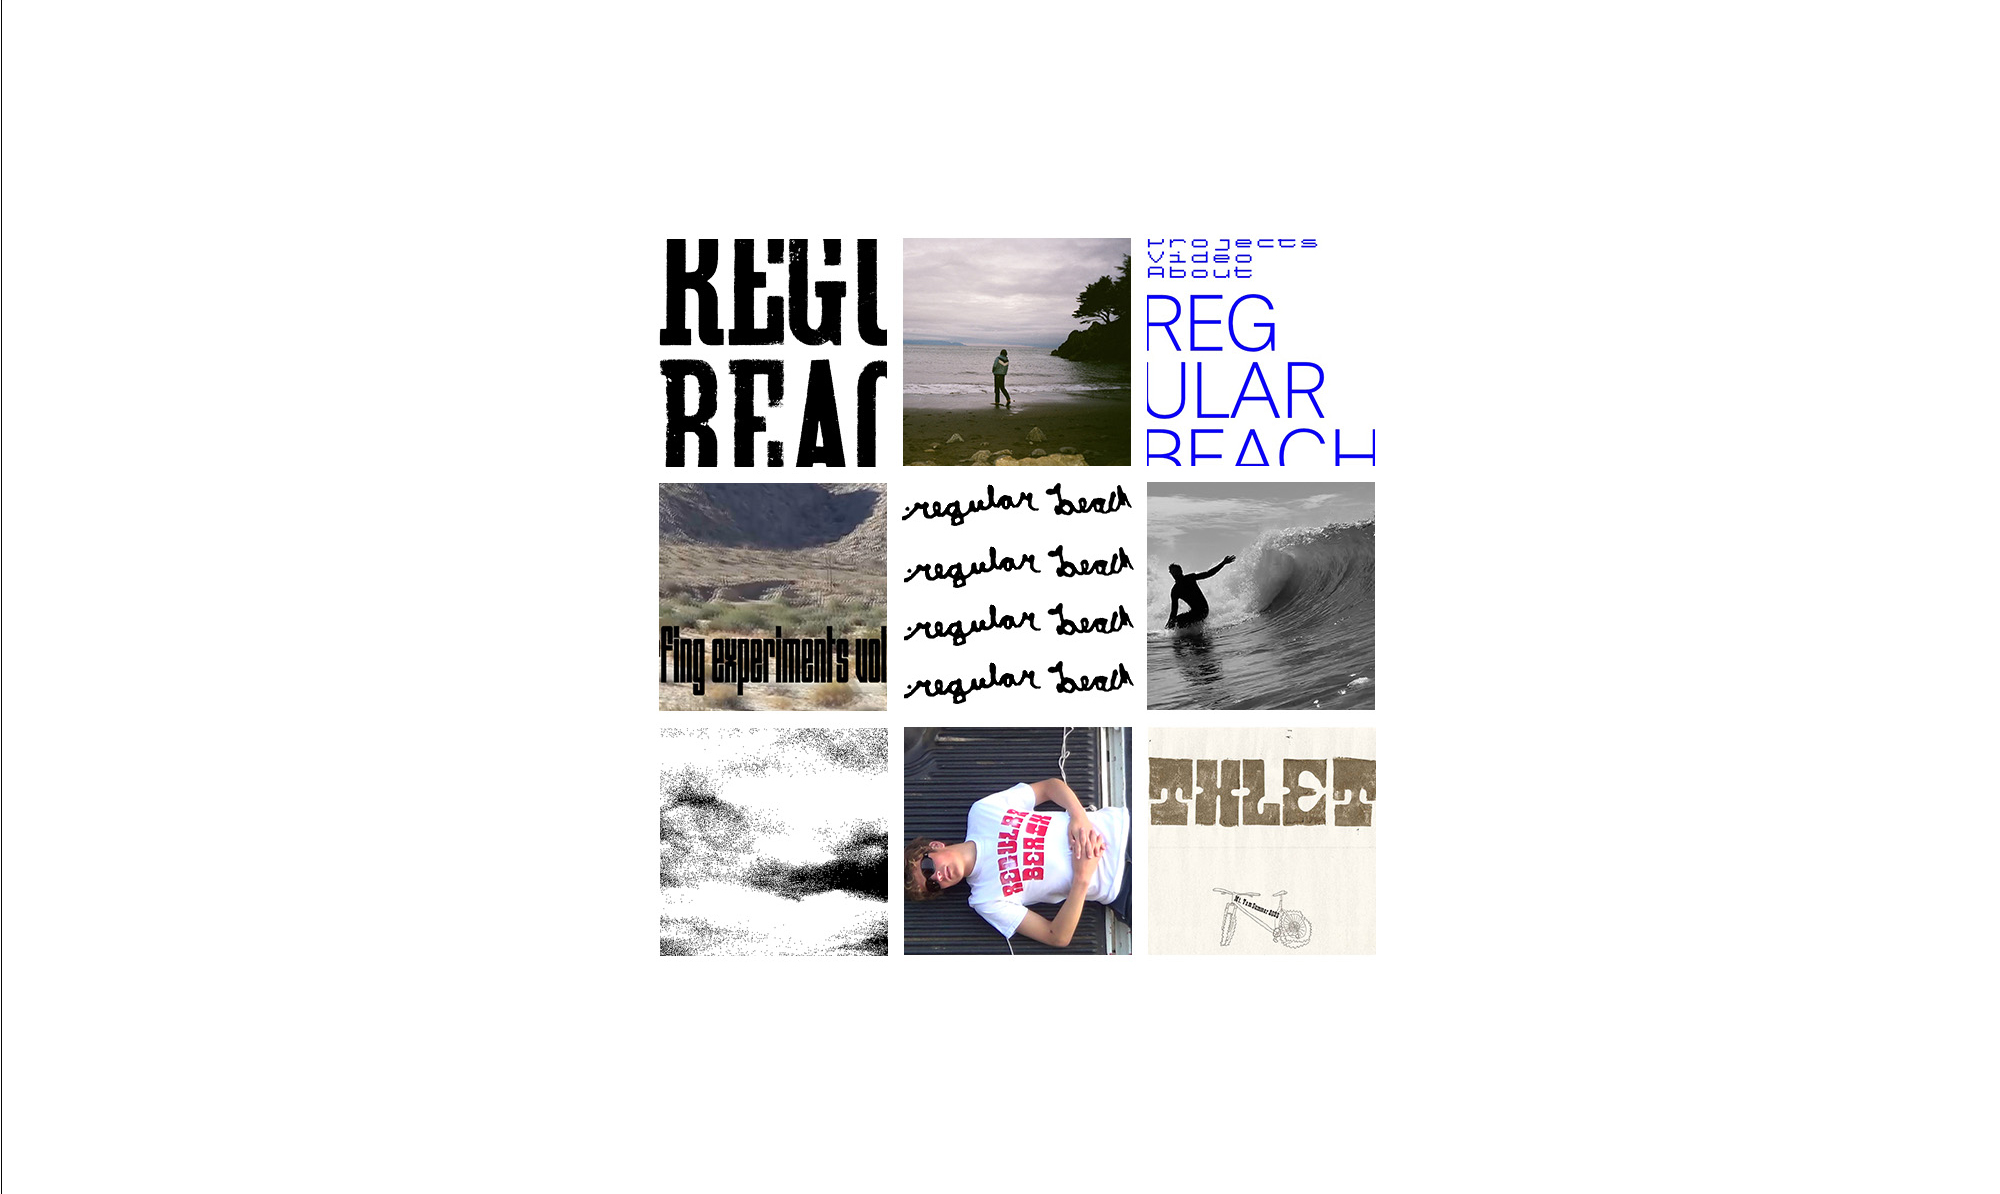
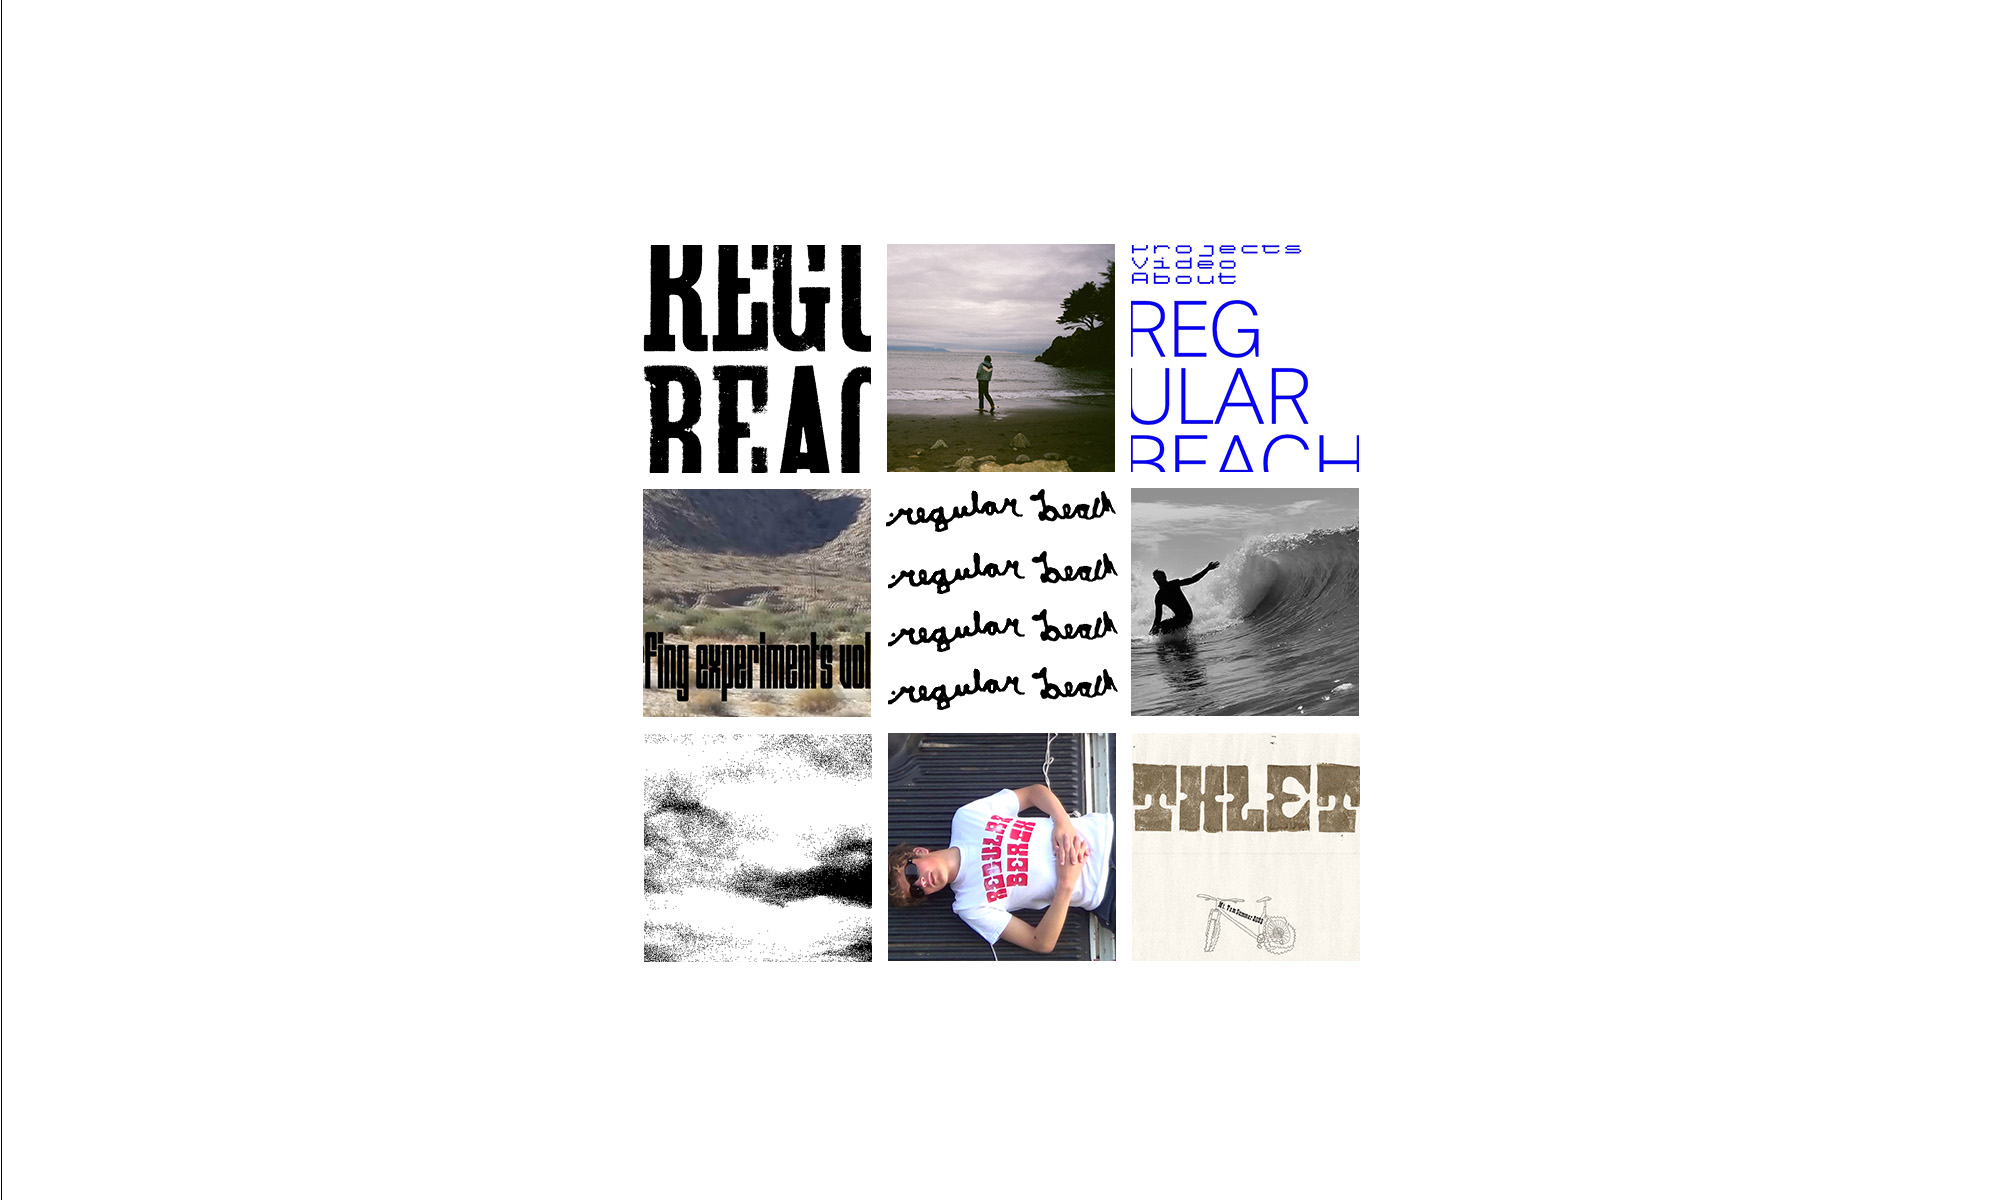
viewport edits

Changed region(s): [[0.31, 0.1859, 0.713, 0.8057]]

diff --git a/static/styles/onboard2.css b/static/styles/onboard2.css
@@ -144,8 +144,11 @@
 }
 
 @media (max-height: 620px)  {.hero {height: 60%}}
-@media (max-width: 555px)  {.onboard , .onboard2  {padding-bottom: 0}}
+@media (max-width: 555px)  {.onboard , .onboard2  {
+    padding-bottom: 0;
+    padding-left: 15px;
+padding-right: 15px;}}
 
 @media (max-width: 555px)  {#description
      {position: absolute;
-    top: 75vh; }}
+    top: 2; }}
